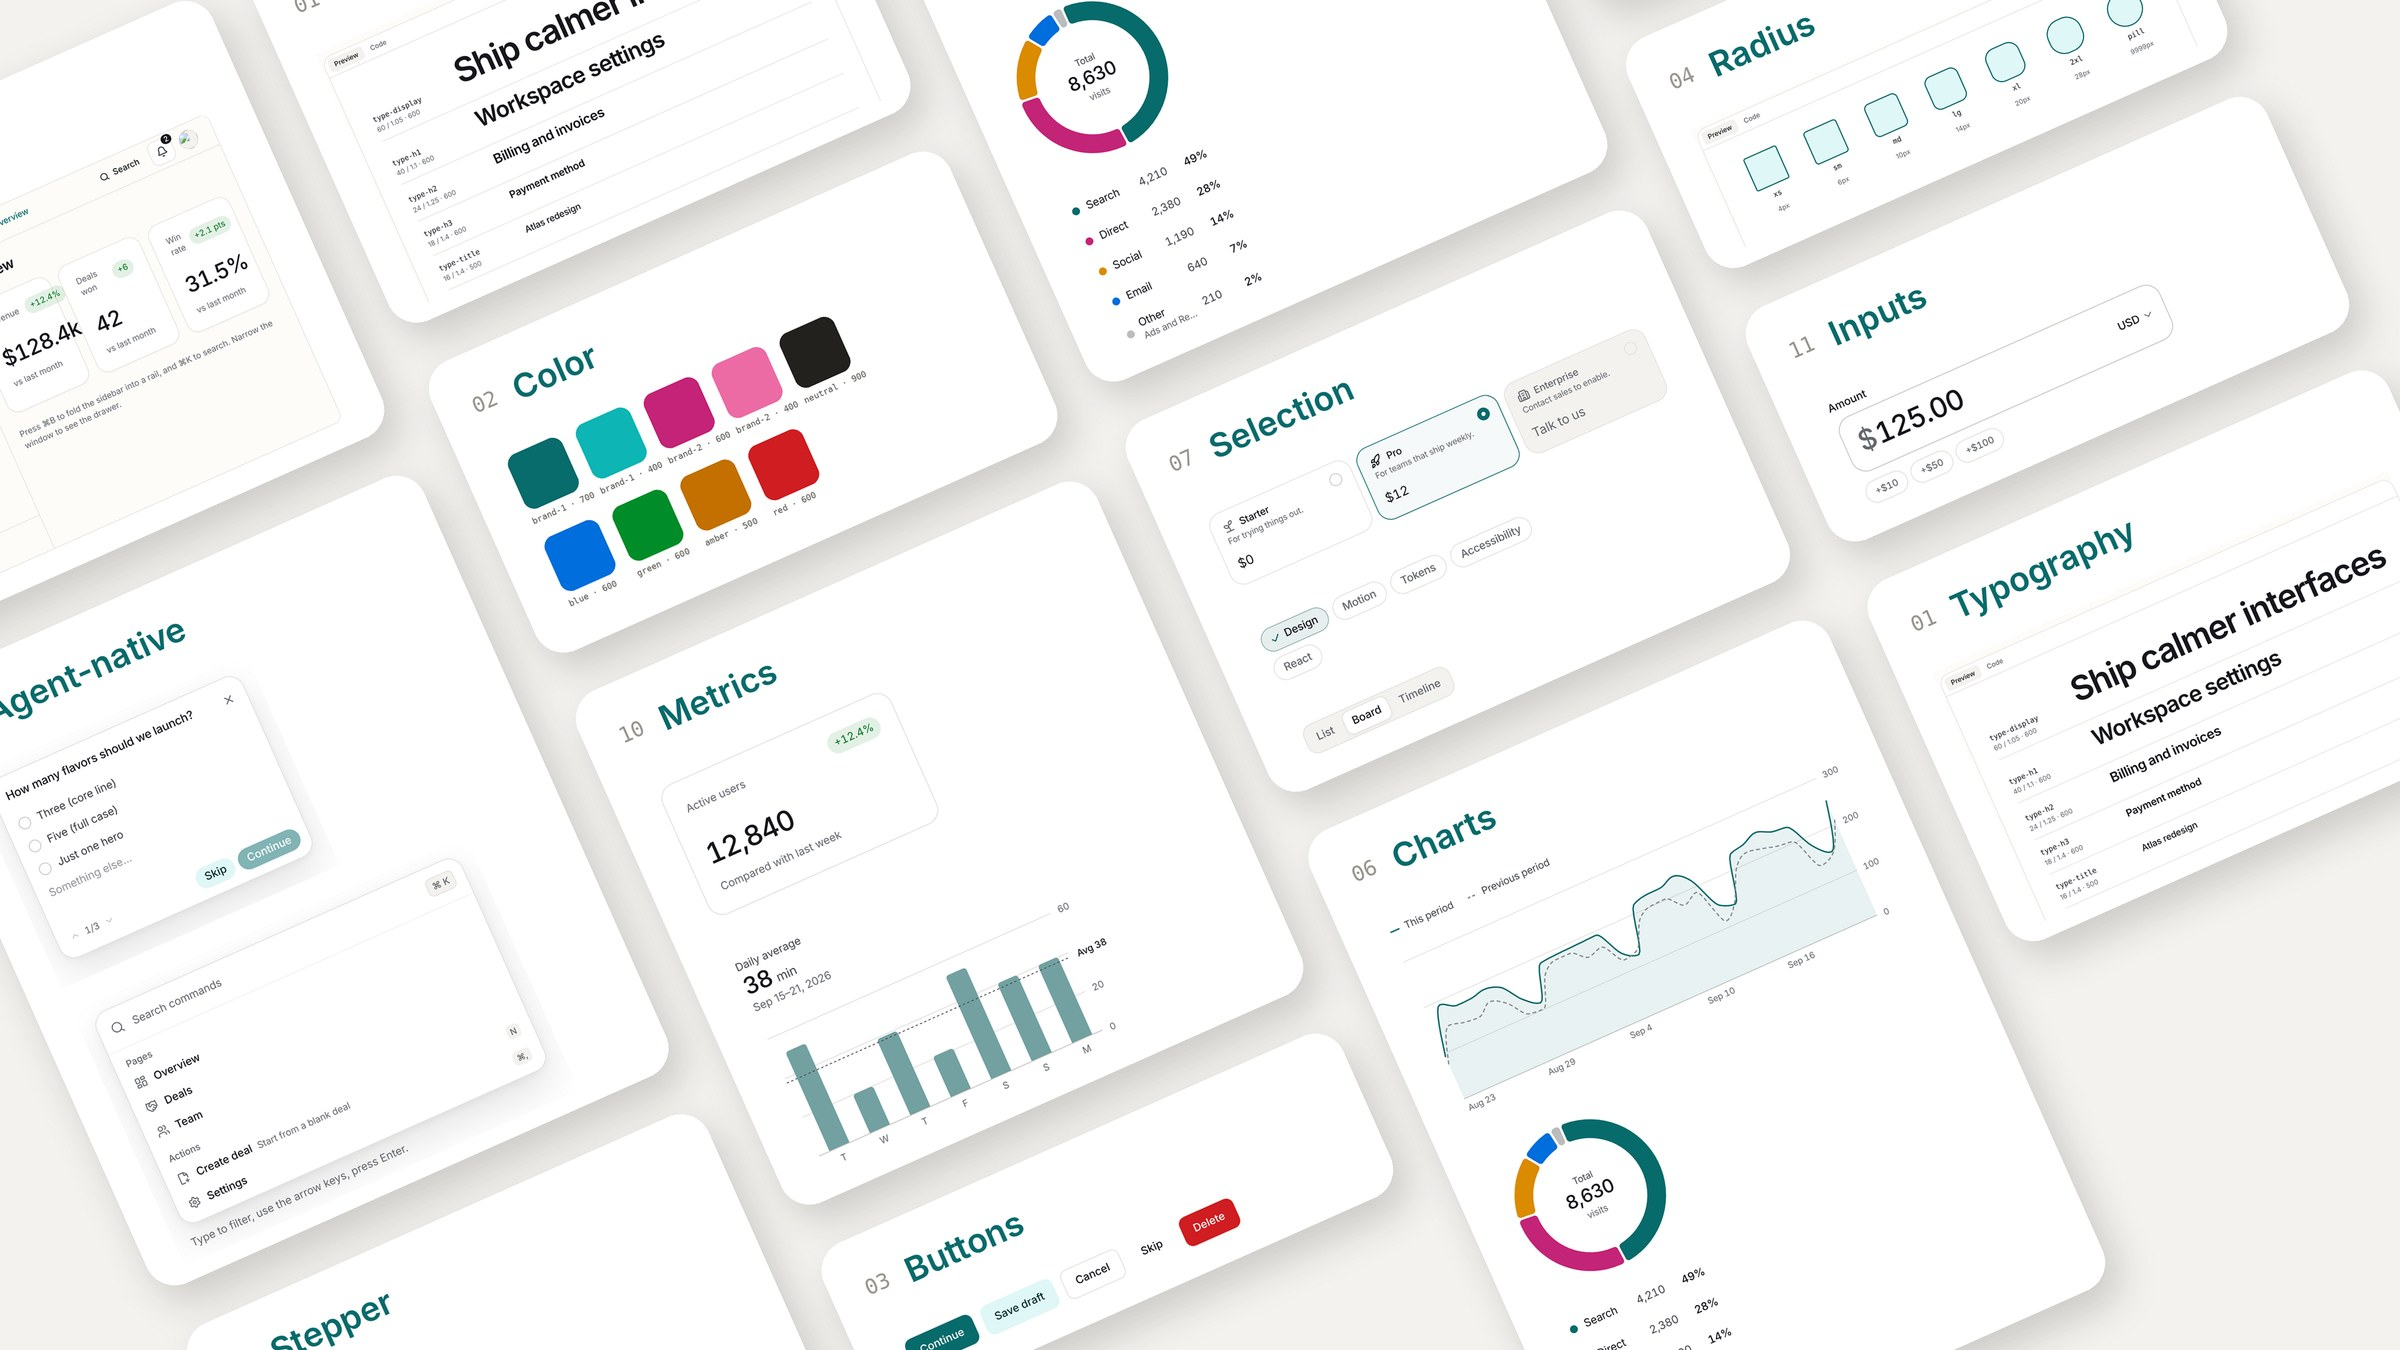
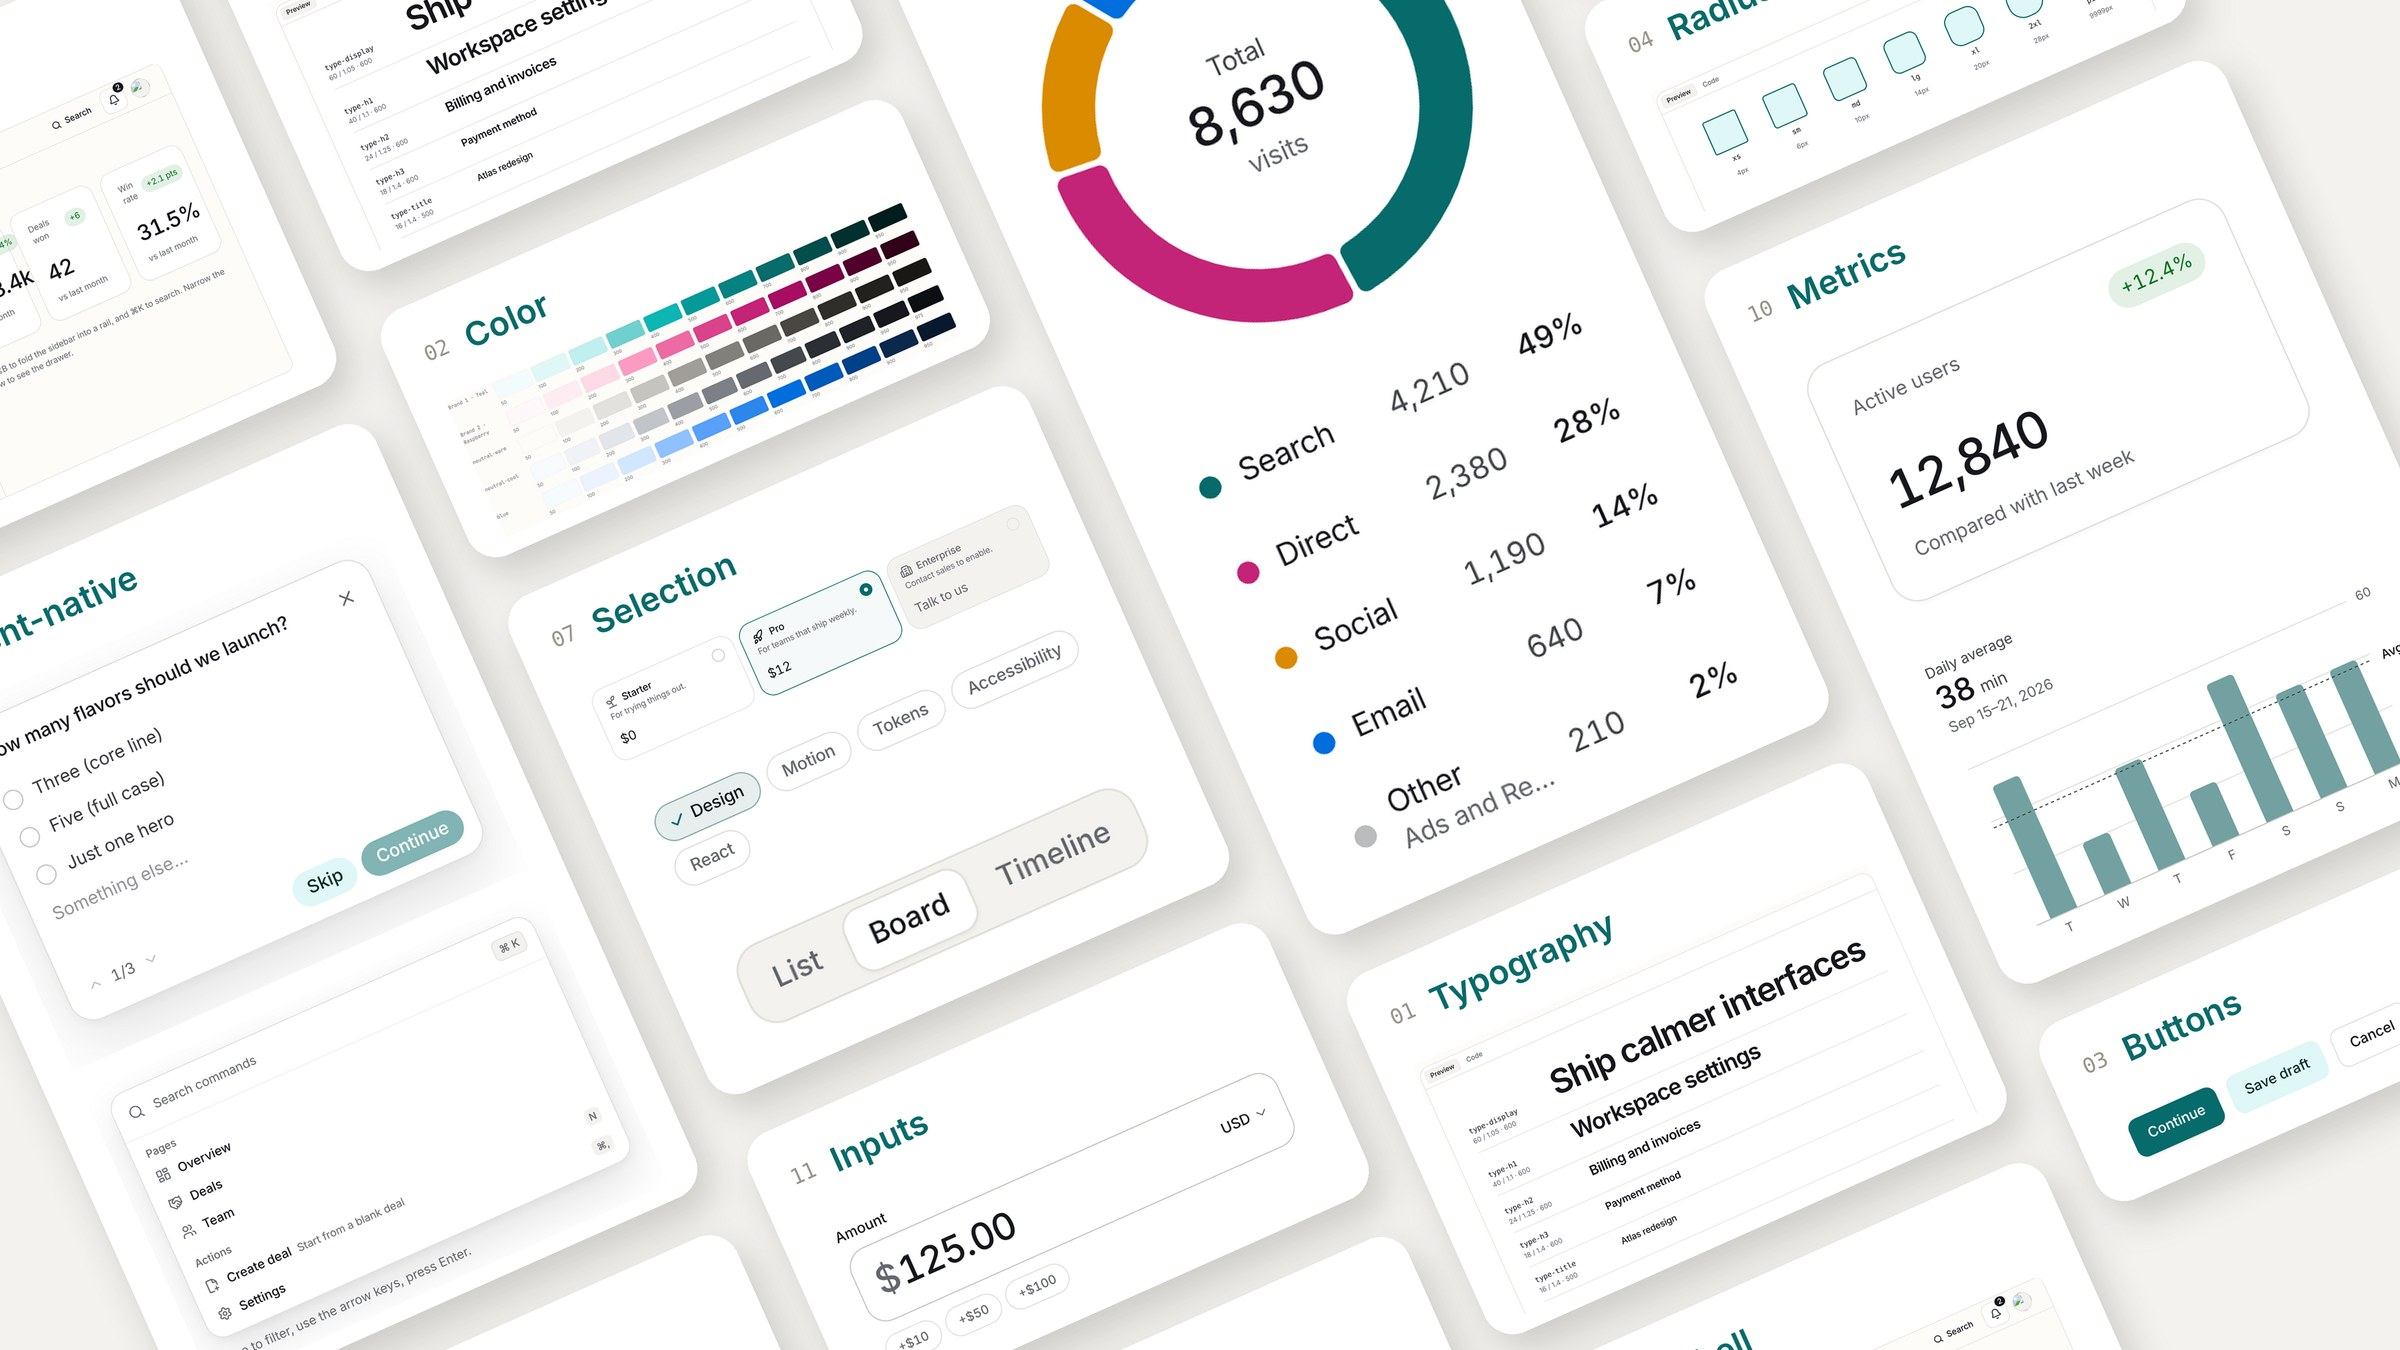
SagUI case study: UI-kit panels from real screenshots; Figma color ramps
Claude-Session: https://claude.ai/code/session_013HU2pZLTPqjcKgvdBKWBo7

diff --git a/app/work/sagui/page.tsx b/app/work/sagui/page.tsx
@@ -4,10 +4,11 @@ import type { Metadata } from "next";
 import { Tag } from "@/components/tag";
 import { SpecPanel } from "@/components/spec-panel";
 import { ProofBar } from "@/components/proof-bar";
-import { Collage } from "@/components/collage";
 import { StepCards } from "@/components/step-cards";
 import { InkPanel } from "@/components/ink-panel";
 import { ConsoleBlock } from "@/components/console-block";
+import { CoverArt } from "@/components/cover-art";
+import { KitPanels } from "@/components/case-study";
 import { projects } from "@/content/site";
 
 export const metadata: Metadata = { title: "SagUI — a design system built for AI agents · Sagnik Dey" };
@@ -114,7 +115,7 @@ export default function SagUICaseStudy() {
 
       <section aria-label="Cover" className="container-page pt-12">
         <div className="group border border-ink">
-          <Collage images={sagui.images} caption={sagui.caption} className="h-[560px]" />
+          <CoverArt src={sagui.cover!.src} alt={sagui.cover!.alt} className="h-[420px] md:h-[620px]" />
         </div>
       </section>
 
@@ -178,6 +179,15 @@ export default function SagUICaseStudy() {
             ))}
           </ul>
         </div>
+        <div className="mt-12">
+          <KitPanels
+            items={[
+              { src: "/images/sagui/kit/color.jpg", alt: "Color panel: SagUI primitive ramps from the Figma library — brand teal, brand raspberry, neutrals and blue, steps 50 to 950", w: 1020, h: 546 },
+              { src: "/images/sagui/kit/typography.jpg", alt: "Typography panel: SagUI type roles from display down to title", w: 1020, h: 743 },
+              { src: "/images/sagui/kit/radius.jpg", alt: "Radius panel: SagUI corner scale from xs to pill", w: 1020, h: 516 },
+            ]}
+          />
+        </div>
       </section>
 
       <section aria-labelledby="components" className="container-page pt-24">
@@ -193,6 +203,18 @@ export default function SagUICaseStudy() {
             <b className="font-mono text-caption text-inverse-accent">AGENT-NATIVE</b>
             <p className="mt-2 text-small text-inverse-muted">Approval card — human-in-the-loop questions before an agent acts · Text shimmer · Text morph</p>
           </div>
+        </div>
+        <div className="mt-8">
+          <KitPanels
+            items={[
+              { src: "/images/sagui/kit/buttons.jpg", alt: "Buttons panel: primary, secondary, ghost and destructive SagUI buttons", w: 1020, h: 427 },
+              { src: "/images/sagui/kit/selection.jpg", alt: "Selection panel: SagUI radio cards, chip group and segmented control", w: 1020, h: 981 },
+              { src: "/images/sagui/kit/data-table.jpg", alt: "Data table panel: SagUI sortable data table with status badges", w: 1020, h: 696 },
+              { src: "/images/sagui/kit/app-shell.jpg", alt: "App shell panel: SagUI app shell with sidebar and overview metrics", w: 1020, h: 873 },
+              { src: "/images/sagui/kit/agent-native.jpg", alt: "Agent-native panel: SagUI approval card and command palette", w: 1020, h: 1456 },
+              { src: "/images/sagui/kit/charts.jpg", alt: "Charts panel: SagUI line chart and donut chart", w: 1020, h: 2325 },
+            ]}
+          />
         </div>
         <div className="mt-8 grid grid-cols-[repeat(auto-fit,minmax(min(100%,420px),1fr))] items-center gap-8">
           <div className="flex flex-col gap-3.5 text-body">

diff --git a/components/case-study.tsx b/components/case-study.tsx
@@ -162,3 +162,14 @@ export function NextCase({ href, label, title }: { href: string; label: string; 
     </section>
   );
 }
+
+/** Flat SagUI kit panels (real component screenshots on rounded cards). */
+export function KitPanels({ items, min = "300px" }: { items: { src: string; alt: string; w: number; h: number }[]; min?: string }) {
+  return (
+    <div className="gap-4 md:columns-2 lg:columns-3" style={{ columnWidth: min }}>
+      {items.map((it) => (
+        <Image key={it.src} src={it.src} alt={it.alt} width={it.w} height={it.h} sizes="(min-width: 1024px) 33vw, 90vw" className="mb-4 h-auto w-full break-inside-avoid border border-ink" />
+      ))}
+    </div>
+  );
+}
